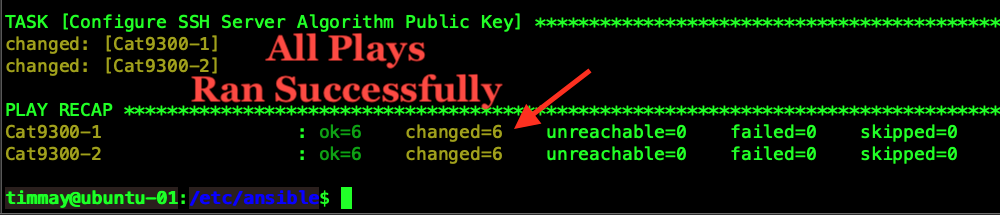
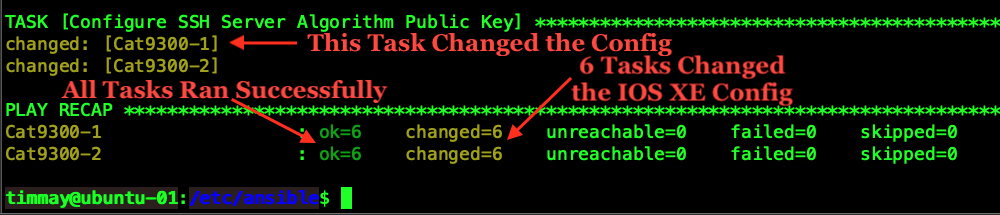
commit

diff --git a/03-Harden_Services.md b/03-Harden_Services.md
@@ -39,7 +39,7 @@ You will be prompted for the vault password, recall we set that before, the pass
 <br>
 <code>ansibile-playbook -i inventories/devnet-switches.yaml playbooks/ssh-harden-plays-cli.yaml --ask-vault-pass</code>
 <br><br>
-<img src="/images/" alt="" width=600>
+<img src="/images/03-02-playbook-output-web.png" alt="Playbook Ran Successfully" width=600>
 <br><br><br>
 
 
